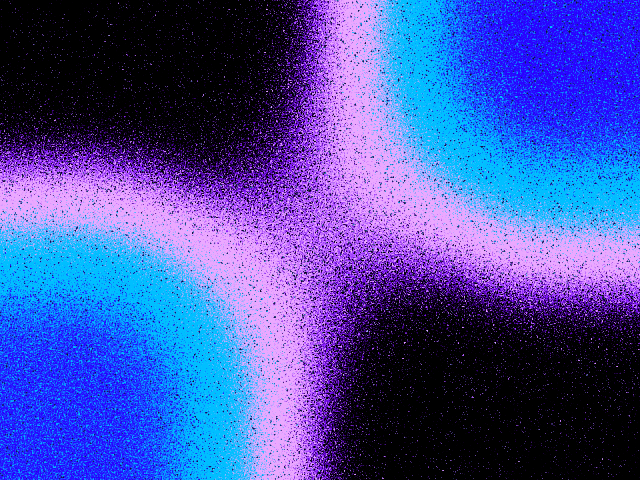
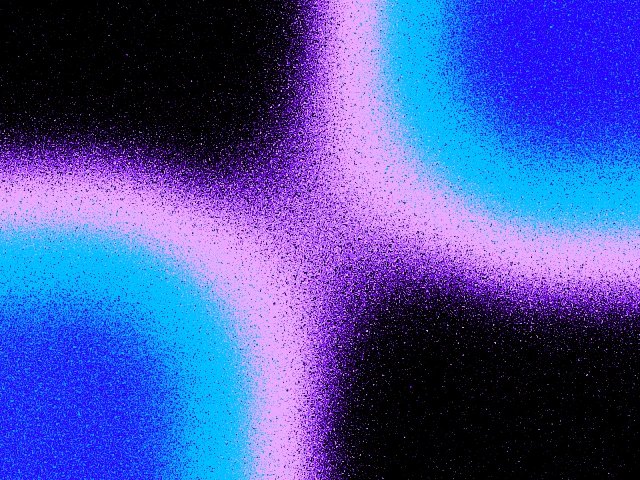
Grain gradient homepage preview tweaks

Changed region(s): [[0.0, 0.0, 1.0, 1.0]]

diff --git a/docs/src/app/page.tsx b/docs/src/app/page.tsx
@@ -4,7 +4,7 @@ import { StaticImageData } from 'next/image';
 import { useState } from 'react';
 import Link from 'next/link';
 import Image from 'next/image';
-import { homeShaders } from './home-shaders';
+import { HomeShaderConfig, homeShaders } from './home-shaders';
 import { GithubIcon } from '@/icons';
 import { CopyButton } from '@/components/copy-button';
 import { Logo } from '@/components/logo';
@@ -68,25 +68,18 @@ function ShaderItem({
   name,
   image,
   url,
-  style,
   pixelated,
   shaderConfig,
   ShaderComponent,
-}: {
-  name: string;
-  image?: StaticImageData;
-  url: string;
-  pixelated?: boolean;
-  ShaderComponent: React.ComponentType<{ style: React.CSSProperties } & Record<string, unknown>>;
-  style?: React.CSSProperties;
-  shaderConfig?: Record<string, unknown>;
-}) {
+  alwaysLivePreview,
+}: HomeShaderConfig) {
   const [shaderVisibility, setShaderVisibility] = useState<'hidden' | 'visible' | 'fading-out'>('hidden');
 
   return (
     <Link href={url} className="group flex flex-col gap-8 outline-0">
       <div
-        className="relative flex aspect-[4/3] items-center justify-center overflow-hidden rounded-2xl bg-cream/50 outline-offset-4 outline-focus will-change-transform group-focus-visible:outline-2 squircle:rounded-4xl"
+        data-pixelated={pixelated ? '' : undefined}
+        className="relative flex aspect-[4/3] items-center justify-center overflow-hidden rounded-2xl bg-cream/50 outline-offset-4 outline-focus will-change-transform group-focus-visible:outline-2 data-pixelated:pixelated squircle:rounded-4xl"
         onTouchStart={() => setShaderVisibility('visible')}
         onTouchEnd={() => setShaderVisibility('fading-out')}
         onTouchCancel={() => setShaderVisibility('fading-out')}
@@ -100,42 +93,49 @@ function ShaderItem({
             setShaderVisibility('fading-out');
           }
         }}
+        {...(alwaysLivePreview && {
+          style: { background: `${shaderConfig.colorBack ?? 'black'} url(${image.src}) center/cover` },
+        })}
       >
-        {image && (
-          <>
-            <Image
-              data-pixelated={pixelated ? '' : undefined}
-              className="absolute aspect-[4/3] h-full w-full data-pixelated:pixelated"
-              src={image}
-              alt={`Preview of ${name}`}
-              unoptimized // The images are already optimized
-              priority
-            />
-            {shaderVisibility !== 'hidden' && shaderConfig && shaderConfig.speed !== 0 && (
-              <ShaderComponent
-                data-visibility={shaderVisibility}
-                className="absolute aspect-[4/3] h-full w-full"
-                style={{
-                  opacity: shaderVisibility === 'fading-out' ? 0 : 1,
-                  filter: shaderVisibility === 'fading-out' ? 'blur(4px)' : 'none',
-                  transitionProperty: 'opacity, filter',
-                  transitionDuration: '300ms',
-                  transitionTimingFunction: 'ease-out',
-                  ...style,
-                }}
-                {...shaderConfig}
-                // Match the screenshot sizes
-                worldWidth={400}
-                worldHeight={300}
-                fit="contain"
-                onTransitionEnd={() => {
-                  if (shaderVisibility === 'fading-out') {
-                    setShaderVisibility('hidden');
-                  }
-                }}
-              />
-            )}
-          </>
+        {alwaysLivePreview ? (
+          <ShaderComponent
+            className="absolute aspect-[4/3] h-full w-full"
+            {...shaderConfig}
+            speed={0}
+            worldWidth={400}
+            worldHeight={300}
+            fit="contain"
+          />
+        ) : (
+          <Image
+            className="absolute aspect-[4/3] h-full w-full"
+            src={image}
+            alt={`Preview of ${name}`}
+            unoptimized // The images are already optimized
+            priority
+          />
+        )}
+
+        {shaderVisibility !== 'hidden' && shaderConfig.speed !== 0 && (
+          <ShaderComponent
+            className="absolute aspect-[4/3] h-full w-full"
+            style={{
+              opacity: shaderVisibility === 'fading-out' ? 0 : 1,
+              filter: shaderVisibility === 'fading-out' ? 'blur(4px)' : 'none',
+              transitionProperty: 'opacity, filter',
+              transitionDuration: '300ms',
+              transitionTimingFunction: 'ease-out',
+            }}
+            {...shaderConfig}
+            worldWidth={400}
+            worldHeight={300}
+            fit="contain"
+            onTransitionEnd={() => {
+              if (shaderVisibility === 'fading-out') {
+                setShaderVisibility('hidden');
+              }
+            }}
+          />
         )}
       </div>
       <div className="text-center">{name}</div>

diff --git a/docs/src/app/home-shaders.ts b/docs/src/app/home-shaders.ts
@@ -78,25 +78,22 @@ import {
 } from '@paper-design/shaders-react';
 import { StaticImageData } from 'next/image';
 
-type HomeShaderConfig = {
+export type HomeShaderConfig = {
   name: string;
-  image?: StaticImageData;
+  image: StaticImageData;
   url: string;
   pixelated?: boolean;
-  ShaderComponent: React.FC<ShaderComponentProps>;
-  shaderConfig?: Record<string, unknown>;
-  style?: React.CSSProperties;
+  ShaderComponent: React.FC<any>;
+  shaderConfig: Record<string, unknown>;
+
+  /**
+   * Whether to render the shader itself in place of the preview image
+   * (can be used for grainy shaders that look bad when previews are compressed/resized)
+   */
+  alwaysLivePreview?: boolean;
 };
 
 export const homeShaders = [
-  {
-    name: 'grain gradient',
-    url: '/grain-gradient',
-    ShaderComponent: GrainGradient,
-    image: grainGradientImg,
-    pixelated: true,
-    shaderConfig: { ...grainGradientPresets[0].params, frame: 7000, speed: 1.5 },
-  },
   {
     name: 'mesh gradient',
     image: meshGradientImg,
@@ -125,6 +122,14 @@ export const homeShaders = [
     image: ditheringImg,
     pixelated: true,
     shaderConfig: { ...ditheringPresets[0].params, scale: 0.6 },
+  },
+  {
+    name: 'grain gradient',
+    image: grainGradientImg,
+    url: '/grain-gradient',
+    ShaderComponent: GrainGradient,
+    shaderConfig: { ...grainGradientPresets[0].params, frame: 7000, speed: 1.5 },
+    alwaysLivePreview: true,
   },
   {
     name: 'dot orbit',

diff --git a/docs/eslint.config.js b/docs/eslint.config.js
@@ -11,7 +11,12 @@ const compat = new FlatCompat({
 
 const eslintConfig = [
   ...compat.extends('next/core-web-vitals', 'next/typescript'),
-  { rules: { '@typescript-eslint/no-unused-vars': 0 } },
+  {
+    rules: {
+      '@typescript-eslint/no-unused-vars': 0,
+      '@typescript-eslint/no-explicit-any': 0,
+    },
+  },
 ];
 
 export default eslintConfig;
